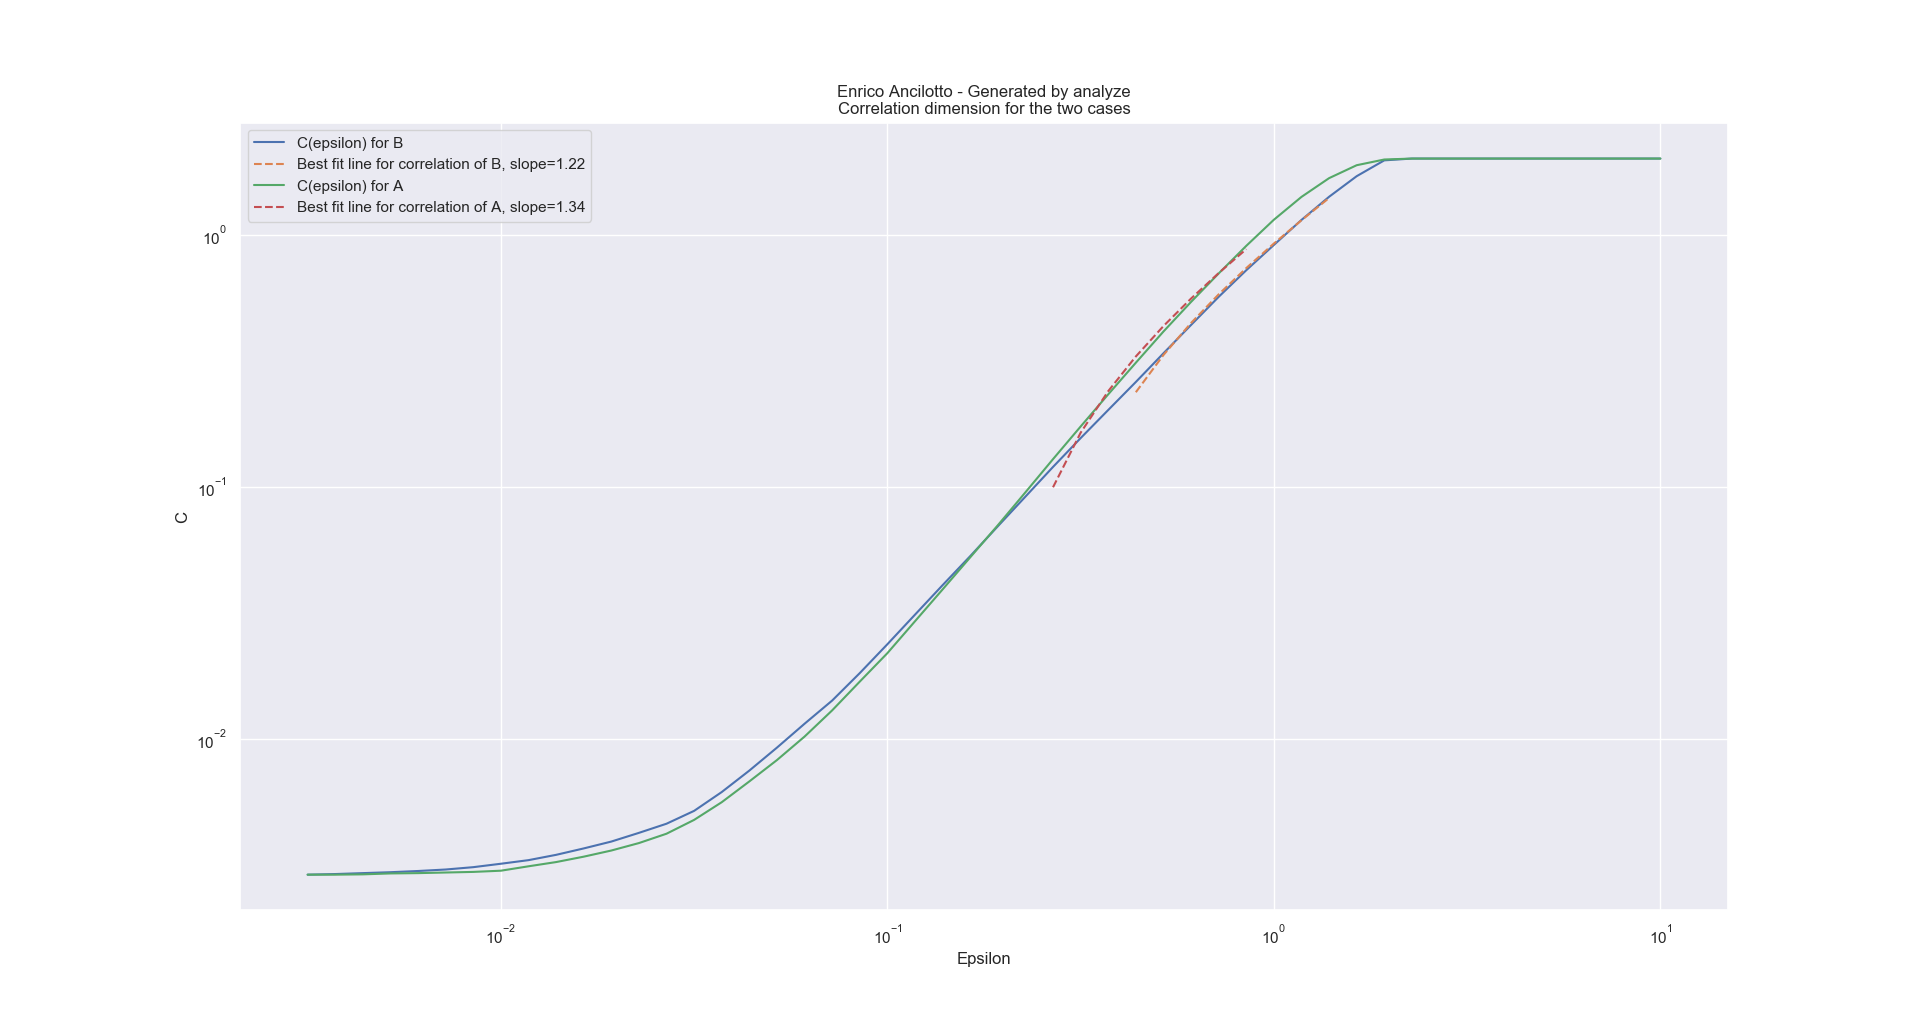
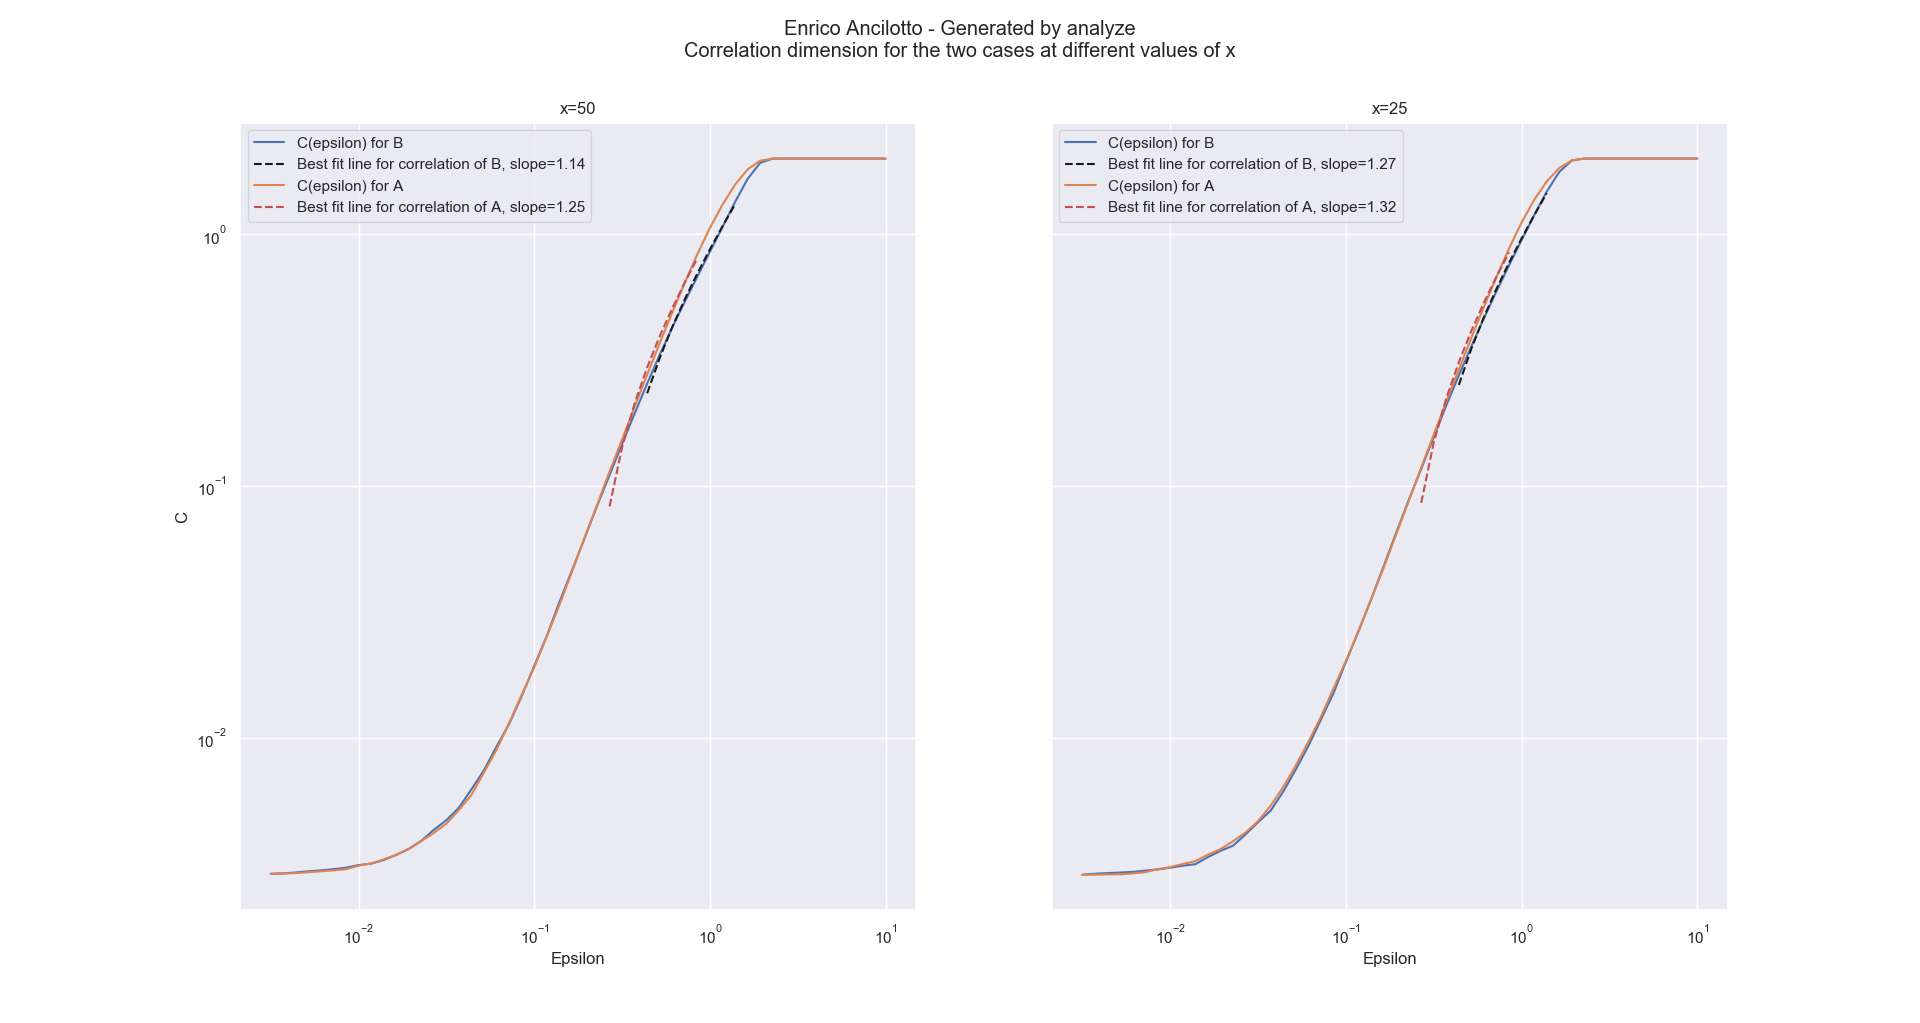
Produced final image for part1

diff --git a/p1.py b/p1.py
@@ -32,12 +32,12 @@ def nwave(alpha,beta,Nx=256,Nt=801,T=200,display=True):
     Output:
     g: Complex Nt x Nx array containing solution
     """
-
-    #generate grid
     L = 100
+    x = np.linspace(0,L,Nx+1)
+    x = x[:-1]
     n = np.arange(-Nx/2,Nx/2)
     n = np.fft.fftshift(n)
-    k = -(2*np.pi*n/L)**2
+    k = -(2*np.pi*n/L)**2   
     
     def RHS(f,t,alpha,beta):
         """Computes dg/dt for model eqn.,
@@ -65,8 +65,6 @@ def nwave(alpha,beta,Nx=256,Nt=801,T=200,display=True):
     g = f[:,:Nx] + 1j*f[:,Nx:]
 
     if display:
-        x = np.linspace(0,L,Nx+1)
-        x = x[:-1]
         plt.figure()
         plt.contour(x,t,g.real)
         plt.xlabel('x')
@@ -142,7 +140,8 @@ def analyze(gA=None,gAN=None,gB=None,gBN=None,startSavingAt=5):
     Question 1.2
     Add input/output as needed
 
-    Discussion: Add discussion here
+    Discussion: Figures 4 and 5 show the energy distribution of the various frequencies for both A and B (note that the displayed value is the logarithm of the energy for a certain frequency). As g is a complex value we can't simply discard the negative frequencies, however both graphs are mostly symmetric suggesting that the complex part isn't a crucial part of the signal. The energy level decays exponentially in both the positive and negative direction: most of the energy is concentrated in the lowest frequency waves. 
+    
     """
     count = 0
     if gA == None:
@@ -155,14 +154,14 @@ def analyze(gA=None,gAN=None,gB=None,gBN=None,startSavingAt=5):
         gBN = np.load("gBN.npy")
 
     tstar=200
-    xstar = 100
+    xstar = 128
     T=200
     Tstart = 50
     Nt,Nx=gA.shape
     L=100
     t = np.linspace(Tstart,T,Nt)
 
-    w2B, Pxx2B = welch(gB,return_onesided=False)
+    """w2B, Pxx2B = welch(gB,return_onesided=False)
     w2A, Pxx2A = welch(gA,return_onesided=False)
 
     w2B = np.fft.fftshift(w2B*Nx/L*2*np.pi)
@@ -188,48 +187,64 @@ def analyze(gA=None,gAN=None,gB=None,gBN=None,startSavingAt=5):
     count+=1
     plt.show()
 
-    y1 = np.zeros((Nt-1,2))
-    y1[:,0] = gB[:-1,100].real
-    y1[:,1] = gB[:-1,100].imag
-    n=Nt-1
-    y2 = np.zeros((Nt-1,2))
-    y2[:,0] = gB[1:,100].real
-    y2[:,1] = gB[1:,100].imag
-    D = cdist(y1,y2)
-    epsilon = np.logspace(-2.5,1)
-    C = np.zeros(len(epsilon))
-    for i in range(len(epsilon)):
-        C[i] = D[D<epsilon[i]].size
-    C /= n*(n-1)/2
-    start=30
-    stop=-12
-    coeff=np.polyfit(epsilon[start:stop],C[start:stop],1)
-    plt.loglog(epsilon,C,label="C(epsilon) for B")
-    plt.loglog(epsilon[start:stop],np.polyval(coeff,epsilon[start:stop]),'--',label="Best fit line for correlation of B, slope={:3.2f}".format(coeff[0]))
+    def getCorrelationDimension(start,stop,g,x):
+        y1 = np.zeros((Nt-1,2))
+        y1[:,0] = g[:-1,x].real
+        y1[:,1] = g[:-1,x].imag
+        
+        y2 = np.zeros((Nt-1,2))
+        y2[:,0] = g[1:,x].real
+        y2[:,1] = g[1:,x].imag
 
-    y1 = np.zeros((Nt-1,2))
-    y1[:,0] = gA[:-1,100].real
-    y1[:,1] = gA[:-1,100].imag
-    n=Nt-1
-    y2 = np.zeros((Nt-1,2))
-    y2[:,0] = gA[1:,100].real
-    y2[:,1] = gA[1:,100].imag
-    D = cdist(y1,y2)
+        n=Nt-1
+
+        D = cdist(y1,y2)
+
+        epsilon = np.logspace(-2.5,1)
+        C = np.zeros(len(epsilon))
+
+        for i in range(len(epsilon)):
+            C[i] = D[D<epsilon[i]].size
+        C /= n*(n-1)/2
+
+        coeff=np.polyfit(epsilon[start:stop],C[start:stop],1)
+        return coeff, C
+
     epsilon = np.logspace(-2.5,1)
-    C = np.zeros(len(epsilon))
-    for i in range(len(epsilon)):
-        C[i] = D[D<epsilon[i]].size
-    C /= n*(n-1)/2
+
+    f, axes = plt.subplots(1, 2, sharey=True)
+    axes = axes.flatten()
+    ax1=axes[0]
+    ax2=axes[1]
+    
+    coeff,C = getCorrelationDimension(30,-12,gB,128)
+    ax1.loglog(epsilon,C,label="C(epsilon) for B")
+    ax1.loglog(epsilon[30:-12],np.polyval(coeff,epsilon[30:-12]),'k--',label="Best fit line for correlation of B, slope={:3.2f}".format(coeff[0]))
+
     start=27
     stop=-15
-    coeff=np.polyfit(epsilon[start:stop],C[start:stop],1)
-    plt.loglog(epsilon,C,label="C(epsilon) for A")
-    plt.loglog(epsilon[start:stop],np.polyval(coeff,epsilon[start:stop]),'--',label="Best fit line for correlation of A, slope={:3.2f}".format(coeff[0]))
+    coeff,C = getCorrelationDimension(27,-15,gA,128)
+    ax1.loglog(epsilon,C,label="C(epsilon) for A")
+    ax1.loglog(epsilon[27:-15],np.polyval(coeff,epsilon[27:-15]),'r--',label="Best fit line for correlation of A, slope={:3.2f}".format(coeff[0]))
+    ax1.set(title="x=50")
 
-    plt.legend()
-    plt.xlabel("Epsilon")
-    plt.ylabel("C")
-    plt.title("Enrico Ancilotto - Generated by analyze\nCorrelation dimension for the two cases")
+    coeff,C = getCorrelationDimension(30,-12,gB,64)
+    ax2.loglog(epsilon,C,label="C(epsilon) for B")
+    ax2.loglog(epsilon[30:-12],np.polyval(coeff,epsilon[30:-12]),'k--',label="Best fit line for correlation of B, slope={:3.2f}".format(coeff[0]))
+
+    start=27
+    stop=-15
+    coeff,C = getCorrelationDimension(27,-15,gA,64)
+    ax2.loglog(epsilon,C,label="C(epsilon) for A")
+    ax2.loglog(epsilon[27:-15],np.polyval(coeff,epsilon[27:-15]),'r--',label="Best fit line for correlation of A, slope={:3.2f}".format(coeff[0]))
+    ax2.set(title="x=25")
+
+    for ax in axes:
+        ax.set(xlabel='Epsilon',ylabel="C")
+        ax.legend()
+    for ax in axes:
+        ax.label_outer()
+    f.suptitle("Enrico Ancilotto - Generated by analyze\nCorrelation dimension for the two cases at different values of x")
     plt.savefig("fig"+str(startSavingAt+count)+".png", bbox_inches='tight')
     count+=1
     plt.show()
@@ -240,6 +255,21 @@ def analyze(gA=None,gAN=None,gB=None,gBN=None,startSavingAt=5):
     plt.xlabel("Time")
     plt.ylabel("Difference")
     plt.title("Enrico Ancilotto - Generated by analyze\nDifference between simulation results with and without added noise")
+    plt.savefig("fig"+str(startSavingAt+count)+".png", bbox_inches='tight')
+    count+=1
+    plt.show()"""
+    f, axes = plt.subplots(1, 2, sharey=True)
+    axes = axes.flatten()
+    axes[0].plot(gA[:,xstar].real, gA[:,xstar].imag)
+    axes[0].set(title="Case A")
+    axes[1].plot(gB[:,xstar].real, gB[:,xstar].imag)
+    axes[1].set(title="Case B")
+
+    for ax in axes:
+        ax.set(xlabel='Real(g)',ylabel="Im(g)")
+    for ax in axes:
+        ax.label_outer()
+    f.suptitle("Enrico Ancilotto - Generated by analyze\nOrbit diagram for g at x = 50")
     plt.savefig("fig"+str(startSavingAt+count)+".png", bbox_inches='tight')
     count+=1
     plt.show()

diff --git a/p2.py b/p2.py
@@ -4,8 +4,7 @@ Enrico Ancilotto
 """
 import numpy as np
 import networkx as nx
-import scipy.sparse as sp
-from scipy.sparse.linalg import svds,expm
+from scipy.linalg import expm,svd
 
 
 def growth1(G,params=(0.02,6,1,0.1,0.1),T=6):
@@ -44,24 +43,15 @@ def growth1(G,params=(0.02,6,1,0.1,0.1),T=6):
     #-------------------------------------
     del G
 
-    B = sp.block_diag((F,F,F), format="lil")
-    del F
-
-    #The tau term is given by sum F_ji = tau
-    B.setdiag(np.concatenate((np.zeros(n)-tau-g-k, np.zeros(n)-tau-k-a, np.zeros(n)-tau+k),axis=None))
-    B.setdiag([a]*n, n)
-    B.setdiag([theta]*n,-n)
-    B.setdiag([-theta]*n,-2*n)
-    
-    B.tocsc()
+    zero = np.zeros((n,n))
+    eye = np.eye(n)
+    B=np.block([[F-(tau+g+k)*eye, a*eye, zero],
+                [theta*eye,F-(tau+k+a)*eye,zero],
+                [-theta*eye,zero,F-(tau-k)*eye]])
 
     expB = expm(T*B)
-    _, s, vt = svds(expB.tocsc(), k=1, return_singular_vectors="vh")
-    s = s[0]
-    vt = vt[0]
-    
-    growth = s**2
-    return growth, vt
+    _, s, vt = svd(expB)
+    return s[0]**2, vt[0]
 
 def growth2(G,params=(0.02,6,1,0.1,0.1),T=6):
     """
@@ -99,25 +89,17 @@ def growth2(G,params=(0.02,6,1,0.1,0.1),T=6):
     #-------------------------------------
     del G
 
-    B = sp.block_diag((F,F), format="lil")
-    del F
-
-    #The tau term is given by sum F_ji = tau
-    B.setdiag(np.concatenate((np.zeros(n)-tau-g-k, np.zeros(n)-tau-k-a, np.zeros(n)-tau+k),axis=None))
-    B.setdiag([a]*n, n)
-    B.setdiag([theta]*n,-n)
+    eye = np.eye(n)
+    B=np.block([[F-(tau+g+k)*eye, a*eye],
+                [theta*eye,F-(tau+k+a)*eye]])
 
     expB = expm(T*B)
-    expB = expB[n:]
-    _, s, vt = svds(expB, k=1, return_singular_vectors="vh")
-    s = s[0]
-    vt = vt[0]
-    growth = s**2
-    vt = np.append(vt,[0]*n)
-    return growth, vt
+    expI = expB[n:]
+    _, s, vt = svd(expI) 
+    return s[0]**2, np.concatenate((vt[0],[0]*n))
 
 
-def growth3(G,params=(2,2.8,0,1,1.0,0.5),T=6):
+def growth3(G,params=(2,2.8,1,1.0,0.5),T=6):
     """
     Question 2.3
     Find maximum possible growth, G=sum(Si Vi)/e(t=0)
@@ -132,13 +114,13 @@ def growth3(G,params=(2,2.8,0,1,1.0,0.5),T=6):
     Discussion: Add discussion here
     """
     a,theta,g,k,tau=params
-    N = G.number_of_nodes()
+    n = G.number_of_nodes()
 
     #Construct flux matrix (use/modify as needed)
     Q = [t[1] for t in G.degree()]
 
-    Pden = np.zeros(N)
-    Pden_total = np.zeros(N)
+    Pden = np.zeros(n)
+    Pden_total = np.zeros(n)
     for j in G.nodes():
         for m in G.adj[j].keys():
             Pden[j] += Q[m]
@@ -147,14 +129,27 @@ def growth3(G,params=(2,2.8,0,1,1.0,0.5),T=6):
     F = nx.adjacency_matrix(G).toarray()
     F = F*np.outer(Q,Pden)
     #-------------------------------------
-    G=0
+    del G
 
-    #Add code here
+    zero = np.zeros((n,n))
+    eye = np.eye(n)
+    B=np.block([[F-(tau+g+k)*eye, a*eye, zero],
+                [theta*eye,F-(tau+k+a)*eye,zero],
+                [-theta*eye,zero,F-(tau-k)*eye]])
 
-    return G
+    expB = expm(T*B)
+
+    bSpV = expB[:n]+expB[2*n:]
+    bSmV = expB[:n]-expB[2*n:]
+
+    C = bSpV.T @ bSpV - bSmV.T @ bSmV
+
+    eigenVals = np.linalg.eigvals(C)
+
+    return max(eigenVals) / 4
 
 
-def Inew(D):
+def Inew(D=None):
     """
     Question 2.4
 
@@ -167,13 +162,14 @@ def Inew(D):
 
     Discussion: Add discussion here
     """
-    # N,M = D.shape
-    # I = np.zeros(N)
+    if D == None:
+        D = np.loadtxt("data.txt")
+    M, N = D.shape
+    X2 = D - np.outer(np.ones((M,1)),D.mean(axis=0))
+    U = np.linalg.svd(X2.T)[0]
 
-    #Add code here
-
-
-    return I
+    Inew = U[:,0].T @ X2.T
+    return Inew
 
 
 if __name__=='__main__':
